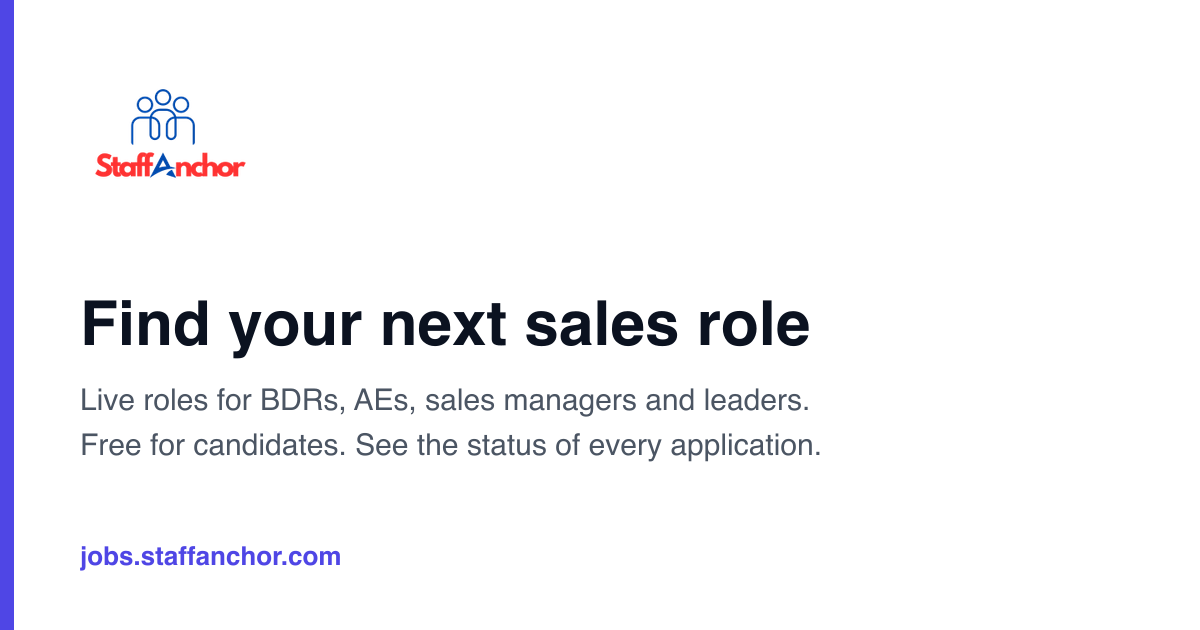
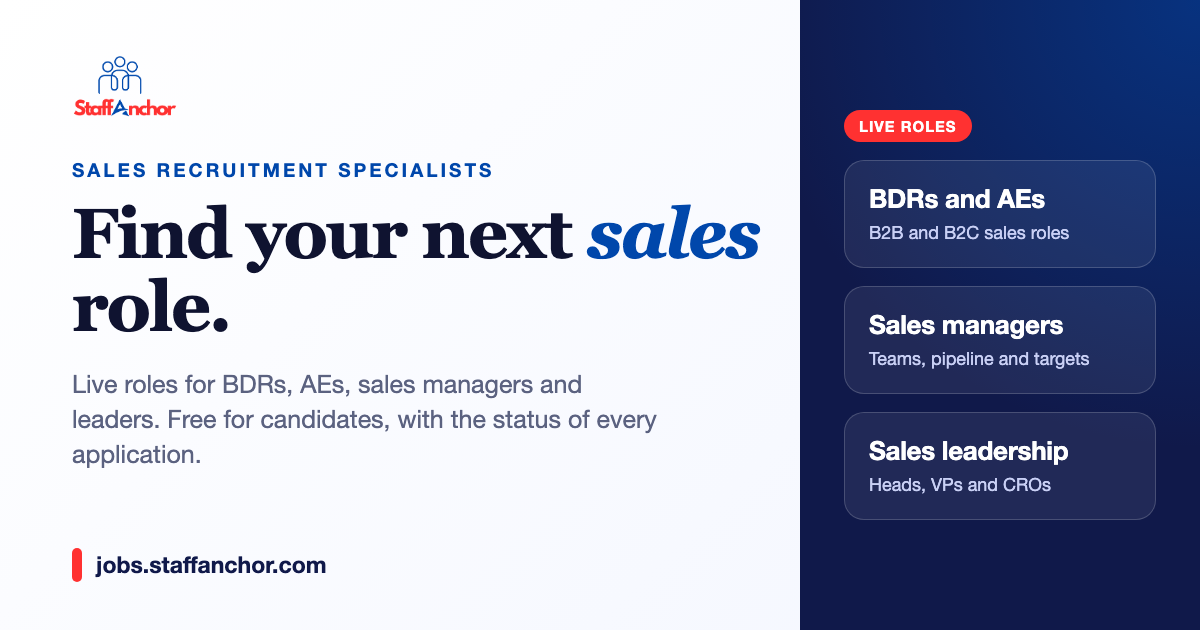
Share cards: new site-wide link preview and a dedicated one for /edge, with its own title

diff --git a/src/app/edge/page.tsx b/src/app/edge/page.tsx
@@ -12,6 +12,14 @@ export const metadata: Metadata = {
   description:
     "1:1 video sessions with Gagan Sharma, founder of StaffAnchor, for sales and leadership professionals: interview prep with a full mock interview, a job search strategy with a resume rebuild, and resume writing.",
   alternates: { canonical: "https://jobs.staffanchor.com/edge" },
+  // The share card (app/edge/opengraph-image.png) needs its own title here, or the link preview shows the site-wide one.
+  openGraph: {
+    title: "StaffAnchor Edge | Your next sales role deserves an edge",
+    description: "1:1 sessions for sales and leadership professionals: interview prep with a mock interview, job strategy with a resume rebuild, and resume writing.",
+    url: "https://jobs.staffanchor.com/edge",
+    siteName: "StaffAnchor Edge",
+    type: "website",
+  },
 };
 
 const BOOK = "/edge/book";
